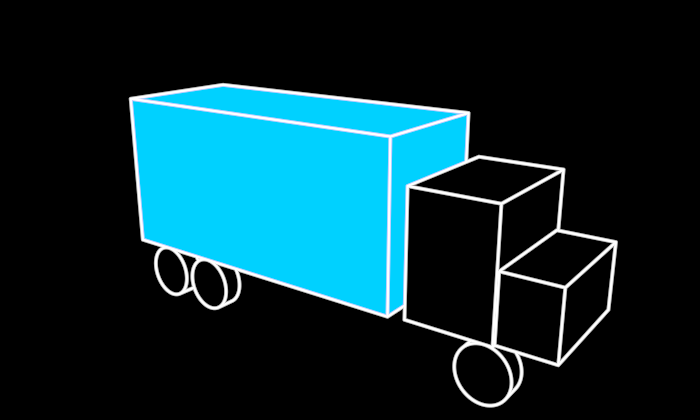
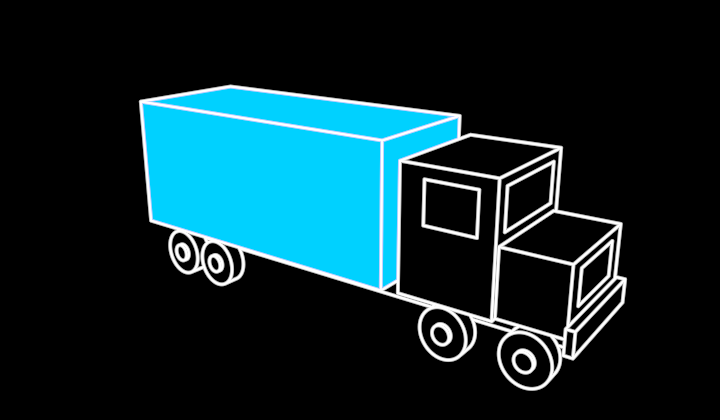
Truck, unmistakable: windows, low hood + grille, bumper, chassis rail, hubbed wheels; hidden-line panels; fills painted in occlusion order
Claude-Session: https://claude.ai/code/session_01E8CcC417CHSMai13VqGZvr

Changed region(s): [[0.18, 0.1857, 0.9, 0.9595], [0.69, 0.9595, 0.72, 0.9905], [0.66, 0.9286, 0.69, 0.9595]]

diff --git a/core/src/geometry/hiddenline.ts b/core/src/geometry/hiddenline.ts
@@ -77,7 +77,21 @@ export interface CylinderSolid {
   fill?: Color
 }
 
-export type Solid = Box | CylinderSolid
+/**
+ * A flat rectangle lying ON a face — a window, a windshield, a grille.
+ * Not a solid: it occludes nothing; its four edges are drawn when its
+ * face (outward `normal`, axis-aligned) faces the viewer and nothing else
+ * hides them. `size` has a zero extent along the normal.
+ */
+export interface Panel {
+  kind: "panel"
+  center: Vec3Like
+  size: Vec3Like
+  normal: Vec3Like
+  fill?: Color
+}
+
+export type Solid = Box | CylinderSolid | Panel
 
 /**
  * Where the drawing is seen from. `eye` is a perspective camera position;
@@ -161,6 +175,7 @@ const mantleNormal = (c: CylinderSolid, theta: number): Vec3Like => {
  * plus the two cap discs.
  */
 const hits = (s: Solid, o: Vec3Like, d: Vec3Like, tMin: number, tMax: number): boolean => {
+  if (s.kind === "panel") return false
   if (s.kind === "box") {
     let lo = tMin
     let hi = tMax
@@ -374,6 +389,28 @@ export const hiddenLineDrawing = (
 
   solids.forEach((s, si) => {
     const depth = depthOf(view, s)
+    if (s.kind === "panel") {
+      const { center: c, size: z } = s
+      if (!facing(view, c, s.normal)) return
+      // The rectangle's corners: the two non-zero extents of `size`.
+      const axes = (["x", "y", "z"] as const).filter((a) => Math.abs(z[a]) > 0)
+      if (axes.length !== 2) return
+      const [a1, a2] = axes as ["x" | "y" | "z", "x" | "y" | "z"]
+      const corner = (s1: number, s2: number): Vec3Like => {
+        const p = { ...c }
+        p[a1] += (s1 * z[a1]) / 2
+        p[a2] += (s2 * z[a2]) / 2
+        return p
+      }
+      const ring = [corner(-1, -1), corner(1, -1), corner(1, 1), corner(-1, 1)]
+      for (let i = 0; i < 4; i++) {
+        const a = ring[i]!
+        const b = ring[(i + 1) % 4]!
+        lines.push(...visibleRuns((t) => lerp(a, b, t), () => true, solids, si, view, edgeN, false, true))
+      }
+      if (s.fill) faces.push({ points: [...ring, ring[0]!], fill: s.fill, solid: si, depth: depth - 1e-3 })
+      return
+    }
     if (s.kind === "box") {
       for (const e of boxEdges(s)) {
         const mid = lerp(e.a, e.b, 0.5)
@@ -447,6 +484,62 @@ export const hiddenLineDrawing = (
     }
   })
 
-  faces.sort((a, b) => b.depth - a.depth || a.solid - b.solid)
+  const order = paintOrder(solids, view, faces)
+  faces.sort((a, b) => order.get(a.solid)! - order.get(b.solid)! || b.depth - a.depth)
   return { lines, faces: faces.map(({ points, fill, solid }) => ({ points, fill, solid })) }
+}
+
+/**
+ * The painter's order of the filled solids: B paints after A whenever B
+ * hides any sample of A's visible faces (its corners pulled 10% toward
+ * the centroid, and the centroid). Kahn's topological sort over that
+ * relation, the farther solid first among the ready ones; a cycle (which
+ * convex, non-interpenetrating solids should not form) falls back to
+ * depth for what remains. Sorting by solid centres alone fails exactly
+ * where it matters — a long chassis rail whose centre is nearer the
+ * camera than the cargo box that hides it.
+ */
+const paintOrder = (
+  solids: readonly Solid[],
+  view: View,
+  faces: readonly (Face & { depth: number })[],
+): Map<number, number> => {
+  const ids = [...new Set(faces.map((f) => f.solid))]
+  const depth = new Map(faces.map((f) => [f.solid, f.depth]))
+  const samples = new Map<number, Vec3Like[]>()
+  for (const f of faces) {
+    const ring = f.points.slice(0, -1)
+    const c = ring.reduce((a, p) => add(a, mul(p, 1 / ring.length)), v(0, 0, 0))
+    const step = Math.max(1, Math.floor(ring.length / 8))
+    const pts = [c]
+    for (let i = 0; i < ring.length; i += step) pts.push(lerp(ring[i]!, c, 0.1))
+    samples.set(f.solid, [...(samples.get(f.solid) ?? []), ...pts])
+  }
+  const after = new Map<number, Set<number>>(ids.map((i) => [i, new Set()]))
+  const indeg = new Map<number, number>(ids.map((i) => [i, 0]))
+  for (const a of ids)
+    for (const b of ids) {
+      if (a === b) continue
+      const solid = solids[b]!
+      const hidden = samples.get(a)!.some((p) =>
+        "eye" in view
+          ? hits(solid, p, sub(view.eye, p), 1e-6, 1)
+          : hits(solid, p, view.toward, 1e-6, Number.POSITIVE_INFINITY),
+      )
+      if (hidden && !after.get(a)!.has(b)) {
+        after.get(a)!.add(b)
+        indeg.set(b, indeg.get(b)! + 1)
+      }
+    }
+  const out = new Map<number, number>()
+  const remaining = new Set(ids)
+  const byDepth = (x: number, y: number) => depth.get(y)! - depth.get(x)! || x - y
+  while (remaining.size) {
+    const ready = [...remaining].filter((i) => indeg.get(i) === 0).sort(byDepth)
+    const next = ready[0] ?? [...remaining].sort(byDepth)[0]!
+    out.set(next, out.size)
+    remaining.delete(next)
+    for (const b of after.get(next)!) indeg.set(b, indeg.get(b)! - 1)
+  }
+  return out
 }

diff --git a/core/vocabulary/Truck/Truck.ts b/core/vocabulary/Truck/Truck.ts
@@ -15,7 +15,7 @@ import { SolidDrawing } from "../../src/parts/soliddrawing"
  *
  * Length runs along local +x (the cab at +x), up is +y, the width is z.
  * The origin is the middle of the truck's bounding box, so a dot at the
- * truck's position grows out from its centre. 640 long, 268 tall, 180
+ * truck's position grows out from its centre. 650 long, 232 tall, 188
  * wide.
  *
  * The body and wheels are filled BLACK — on the black ground that reads
@@ -27,38 +27,54 @@ export class Truck extends SolidDrawing {
   static sovereign = true
   /** The cargo's colour — the trailer's fill. */
   cargo = color(BLUE)
-  /** The body's fill (cab, hood, wheels) — black, i.e. solid on the ground. */
+  /** The body's fill (cab, hood, chassis, wheels) — black, i.e. solid on the ground. */
   body = color(BLACK)
+
+  constructor(overrides: ConstructorParameters<typeof SolidDrawing>[0] = {}) {
+    // Room for every visible span of 25 parts from any side.
+    super({ lineSlots: 160, faceSlots: 64, ...overrides })
+  }
 
   solids(): Solid[] {
     const cargo = this.cargo.value
     const body = this.body.value
     // Built on the ground (y = 0) from the rear of the trailer (x = 0),
-    // then centred.
-    const R = 34 // wheel radius
-    const W = 26 // wheel width
-    const floor = 2 * R // the bodies sit on the wheel tops
-    const raw: Solid[] = [
-      // Trailer: 440 × 200 × 180.
-      { kind: "box", center: { x: 220, y: floor + 100, z: 0 }, size: { x: 440, y: 200, z: 180 }, fill: cargo },
-      // Cab: 110 × 150 × 170, a gap of 20 behind it.
-      { kind: "box", center: { x: 515, y: floor + 75, z: 0 }, size: { x: 110, y: 150, z: 170 }, fill: body },
-      // Hood: 70 × 80 × 160.
-      { kind: "box", center: { x: 605, y: floor + 40, z: 0 }, size: { x: 70, y: 80, z: 160 }, fill: body },
-    ]
-    const wheel = (x: number, z: number): Solid => ({
-      kind: "cylinder",
-      center: { x, y: R, z },
-      radius: R,
-      height: W,
-      axis: "z",
-      fill: body,
+    // then centred. The silhouette is what says TRUCK: a tall cargo box,
+    // a shorter cab with its windows, a low hood, a bumper, and round
+    // wheels standing under it all on a chassis rail.
+    const R = 30 // wheel radius
+    const W = 22 // wheel width
+    const floor = 62 // the bodies' underside, just above the wheel tops
+    const box = (x0: number, x1: number, y0: number, y1: number, hz: number, fill: typeof body): Solid => ({
+      kind: "box",
+      center: { x: (x0 + x1) / 2, y: (y0 + y1) / 2, z: 0 },
+      size: { x: x1 - x0, y: y1 - y0, z: 2 * hz },
+      fill,
     })
-    for (const x of [60, 140]) for (const z of [-77, 77]) raw.push(wheel(x, z))
-    for (const z of [-72, 72]) raw.push(wheel(560, z))
-    // Centre on the bounding box: x 0…640, y 0…268, z ±90.
-    const cx = 320
-    const cy = (floor + 200) / 2
+    const raw: Solid[] = [
+      box(0, 420, floor, 232, 88, cargo), // the trailer
+      box(20, 640, 44, floor, 56, body), // the chassis rail, between the wheels
+      box(440, 560, floor, 212, 82, body), // the cab
+      box(560, 640, floor, 140, 74, body), // the hood, low
+      box(640, 650, 48, 76, 80, body), // the bumper
+    ]
+    // Windows: one each side of the cab, the windshield above the hood,
+    // the grille on the hood's face — flat panels, drawn when their face is.
+    for (const side of [-1, 1])
+      raw.push({ kind: "panel", center: { x: 505, y: 172, z: side * 82 }, size: { x: 66, y: 50, z: 0 }, normal: { x: 0, y: 0, z: side } })
+    raw.push({ kind: "panel", center: { x: 560, y: 176, z: 0 }, size: { x: 0, y: 48, z: 124 }, normal: { x: 1, y: 0, z: 0 } })
+    raw.push({ kind: "panel", center: { x: 640, y: 108, z: 0 }, size: { x: 0, y: 40, z: 96 }, normal: { x: 1, y: 0, z: 0 } })
+    // Wheels: a short cylinder each, a hub proud of its outer face.
+    const wheel = (x: number, z: number) => {
+      const side = Math.sign(z)
+      raw.push({ kind: "cylinder", center: { x, y: R, z }, radius: R, height: W, axis: "z", fill: body })
+      raw.push({ kind: "cylinder", center: { x, y: R, z: z + side * (W / 2 + 2) }, radius: 11, height: 4, axis: "z", fill: body })
+    }
+    for (const x of [70, 140]) for (const z of [-77, 77]) wheel(x, z)
+    for (const x of [500, 600]) for (const z of [-70, 70]) wheel(x, z)
+    // Centre on the bounding box: x 0…650, y 0…232, z ±94.
+    const cx = 325
+    const cy = 116
     return raw.map((s) => ({ ...s, center: { x: s.center.x - cx, y: s.center.y - cy, z: s.center.z } }))
   }
 }

diff --git a/core/test/hiddenline.test.ts b/core/test/hiddenline.test.ts
@@ -129,8 +129,8 @@ describe("Truck", () => {
       const truck = new Truck({ observer: obs })
       const d = truck.drawing()
       expect(d.lines.length).toBeGreaterThan(8)
-      expect(d.lines.length).toBeLessThanOrEqual(64)
-      expect(d.faces.length).toBeLessThanOrEqual(32)
+      expect(d.lines.length).toBeLessThanOrEqual(160)
+      expect(d.faces.length).toBeLessThanOrEqual(64)
     }
   })
 
@@ -138,7 +138,7 @@ describe("Truck", () => {
     const obs = new Observer({ phi: 0.6, theta: 0.3 })
     const truck = new Truck({ observer: obs, x: 100 })
     const a = truck.worldCurves()
-    expect(Math.min(...a.flat().map((p) => p.x))).toBeCloseTo(100 - 320, 6)
+    expect(Math.min(...a.flat().map((p) => p.x))).toBeCloseTo(100 - 325, 6)
     obs.phi.value = -0.6
     const b = truck.worldCurves()
     expect(JSON.stringify(b)).not.toBe(JSON.stringify(a))

diff --git a/core/src/parts/soliddrawing.ts b/core/src/parts/soliddrawing.ts
@@ -129,6 +129,8 @@ export interface SolidDrawingOptions {
 const flattenSolids = (solids: readonly Solid[]): number[] =>
   solids.flatMap((s) => {
     const fill = s.fill ? [s.fill.r, s.fill.g, s.fill.b] : [-1, -1, -1]
+    if (s.kind === "panel")
+      return [2, s.center.x, s.center.y, s.center.z, s.size.x, s.size.y, s.size.z, s.normal.x, s.normal.y, s.normal.z, ...fill]
     return s.kind === "box"
       ? [0, s.center.x, s.center.y, s.center.z, s.size.x, s.size.y, s.size.z, ...fill]
       : [1, s.center.x, s.center.y, s.center.z, s.radius, s.height, "xyz".indexOf(s.axis), ...fill]

diff --git a/core/vocabulary/Truck/README.md b/core/vocabulary/Truck/README.md
@@ -2,7 +2,8 @@
 
 ![Truck](Truck.png)
 
-A truck, platonic: a box trailer of blue cargo, a cab, a hood, six wheels.
+A truck, platonic: a box trailer of blue cargo, a cab with its windows, a
+low hood with a grille, a bumper, a chassis rail, eight wheels with hubs.
 It is drawn the way the 2021 vocabulary draws everything — white lines on
 black and one fill colour — but its lines are its **visible 3D edges**,
 recomputed for wherever the camera is: hidden edges are removed, the
@@ -31,5 +32,4 @@ removal, painter-ordered fills).
 **Why it exists**: the dot→truck morph (`/demo/?scene=morph-dot-truck`,
 vocabulary/Morph `MorphCurves`) — a blue particle in a flow becomes the
 truck it stands for, and back. Its `worldCurves()` is what the morph lands
-on. 640 long (+x, cab forward), 268 tall, 180 wide, origin at the middle
-of its bounding box.
+on. Cab forward (+x), origin at the middle of its bounding box. 650 long, 232 tall, 188 wide.
